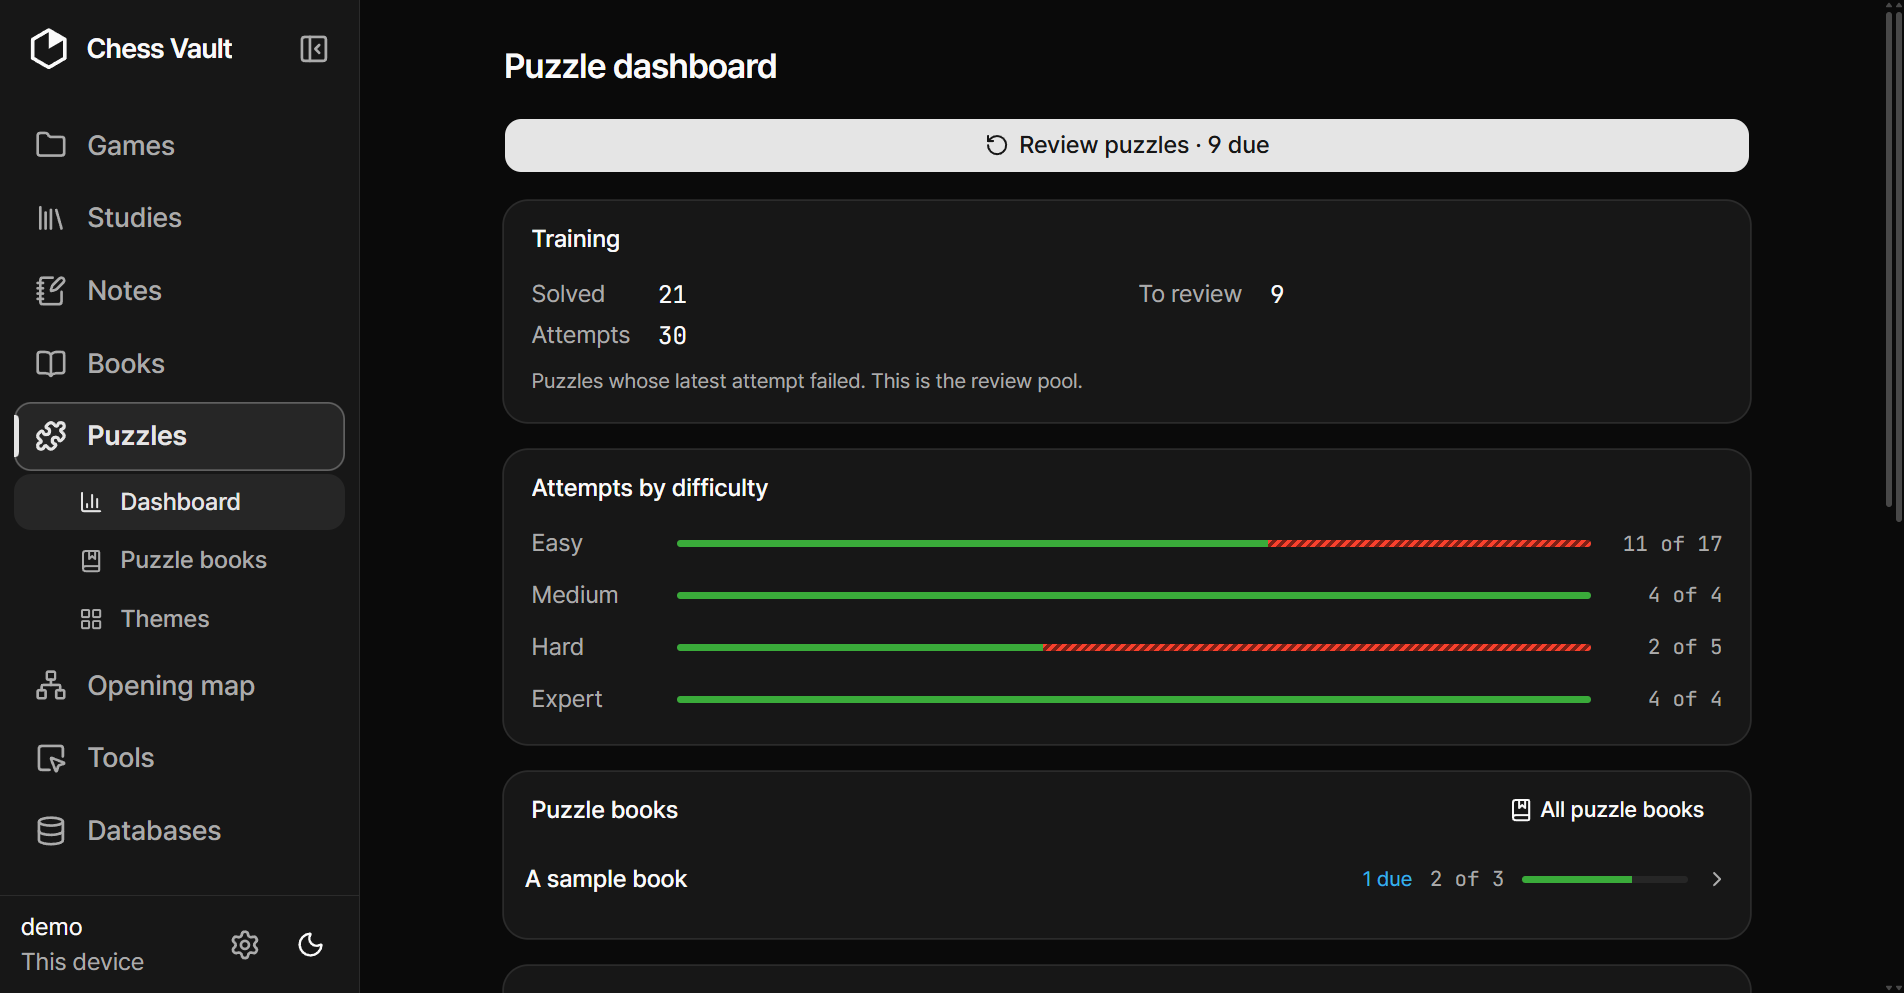
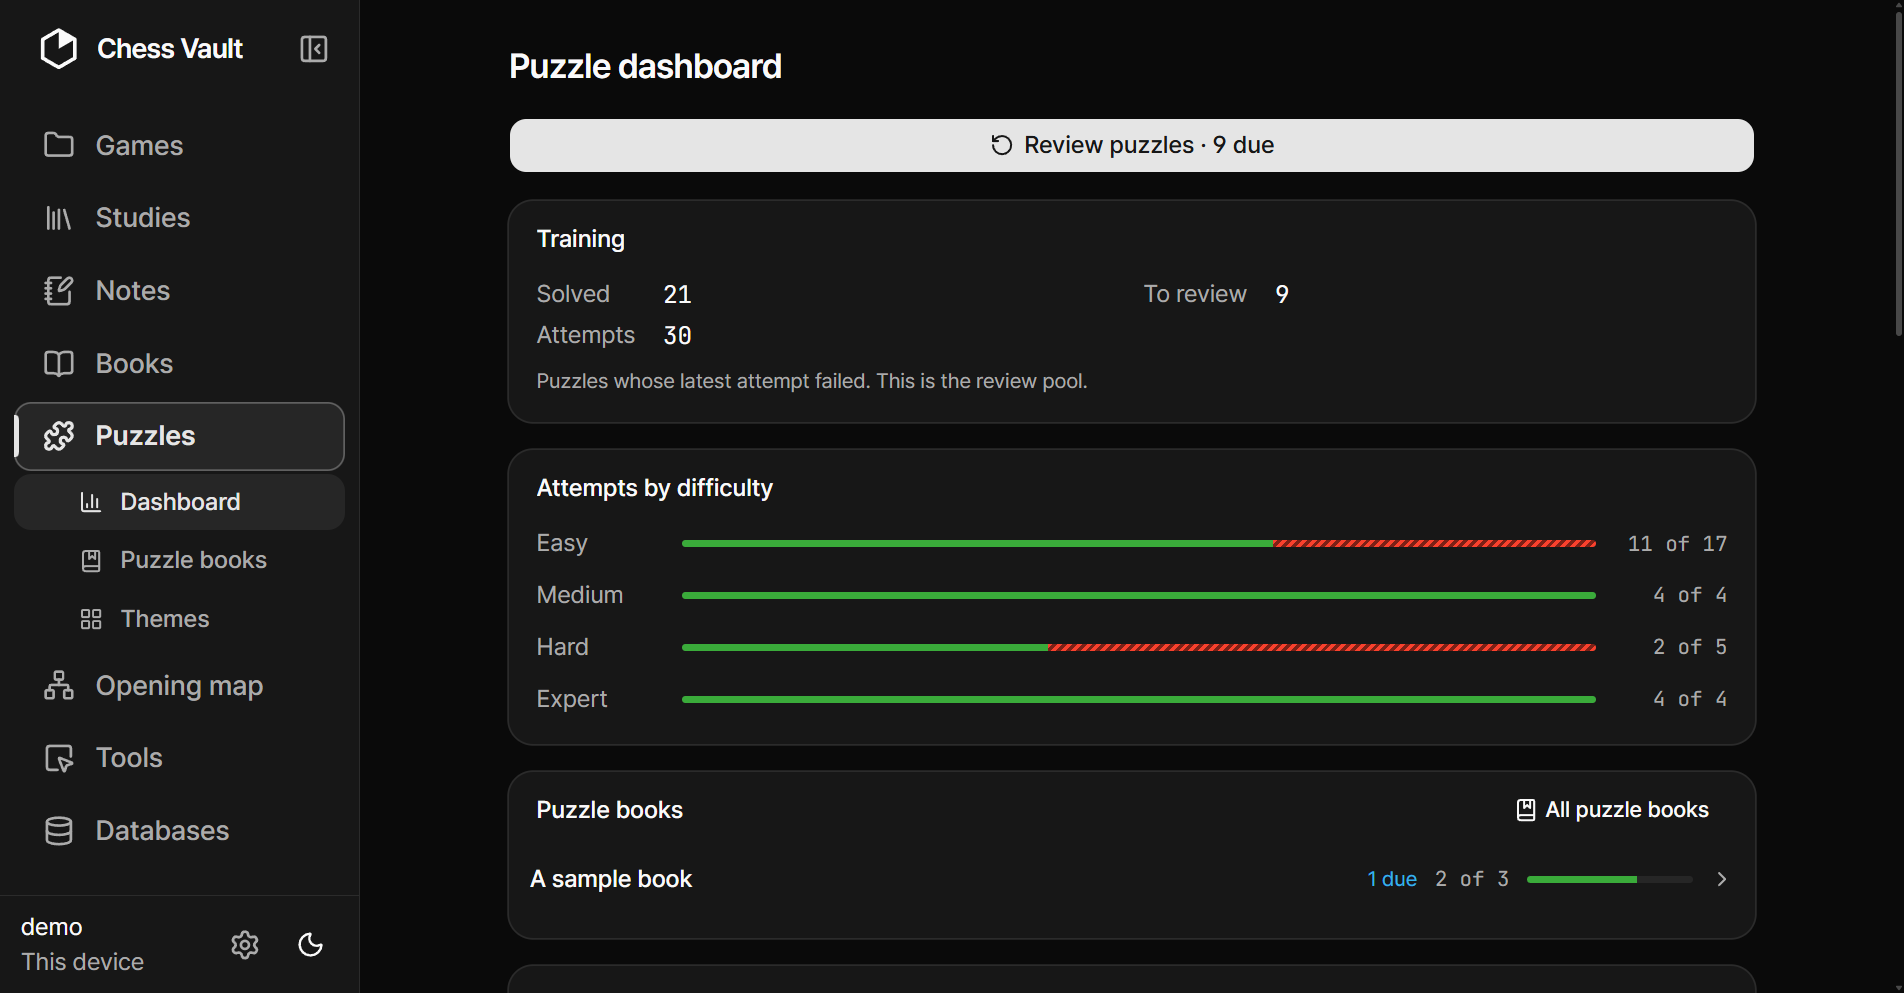
Bring the manual and screenshots up to 0.8.4
The manual's drill paragraph said a gap only ends a session, which was
true before this round; it now also describes the amber sentence a
line passes through, the arrow on the board and the variation in the
moves panel, in both languages. Twenty screenshots are recaptured
because the browser sidebar's fold switch moved beside the brand mark
on every desktop route (about 1% of pixels each at a 0% noise floor),
the dashboard lost its attempt-log well (4%), and the opening map
gained its centre dots. The puzzle trainer, phone and node shots keep
their committed bytes: their deltas matched their own run-to-run
noise. Measured as two captures of one build against the committed
set. check:contrast passes, and the generated licence inventory (163
packages, the same licence set) still matches THIRD-PARTY.md.

diff --git a/web/landing/docs.html b/web/landing/docs.html
@@ -2224,8 +2224,8 @@
                 The status line leads: “Your move.” → “Your opponent is replying…”. Stepping back
                 mid-game: “Reviewing an earlier move. Step to the end to keep playing.”
               </li>
-              <li data-ko="<strong>드릴</strong>에서는 스터디에 없는 수가 거부됩니다: «Your study plays {moves} here. Try again.» 세션은 셋 중 하나로 끝납니다: «End of your prepared line. Every move matched the study.», 갭(«The field answered {san}, played in {pct}% of games here, and your study holds no reply.»), 또는 «This line has run past the database. You are on your own now.»">
-                In a <strong>drill</strong>, a move your study does not play is refused: “Your study plays {moves} here. Try again.” A session ends one of three ways — “End of your prepared line. Every move matched the study.”, a gap (“The field answered {san}, played in {pct}% of games here, and your study holds no reply.”), or “This line has run past the database. You are on your own now.”
+              <li data-ko="<strong>드릴</strong>에서는 스터디에 없는 수가 거부됩니다: «Your study plays {moves} here. Try again.» 세션은 셋 중 하나로 끝납니다: «End of your prepared line. Every move matched the study.», 갭(«The field answered {san}, played in {pct}% of games here, and your study holds no reply.»), 또는 «This line has run past the database. You are on your own now.» 라인이 이어지는 동안 상대가 스터디에 없는 응수를 둘 수 있는 자리를 지나면 호박색 경고로 알립니다: «The field also plays {san} in {pct}% of games, and your study has no answer to it.» 그 응수는 보드에 화살표로 그려지고, 수순 패널에 두어진 응수 곁의 변화수로 들어가며 «{pct}% of games. No answer in the study.»를 주석으로 답니다.">
+                In a <strong>drill</strong>, a move your study does not play is refused: “Your study plays {moves} here. Try again.” A session ends one of three ways — “End of your prepared line. Every move matched the study.”, a gap (“The field answered {san}, played in {pct}% of games here, and your study holds no reply.”), or “This line has run past the database. You are on your own now.” A position the line passes through where the field also plays a reply your study does not answer is flagged in amber as it goes: “The field also plays {san} in {pct}% of games, and your study has no answer to it.” That reply is drawn on the board as an arrow and enters the moves panel as a variation beside the reply that was played, with “{pct}% of games. No answer in the study.” as its comment.
               </li>
               <li data-ko="<strong>Free play</strong>에서 라인이 북을 벗어나면 엔진이 상대를 이어받아 게임이 계속됩니다.">
                 In <strong>free play</strong>, when the line leaves book the engine takes over the
